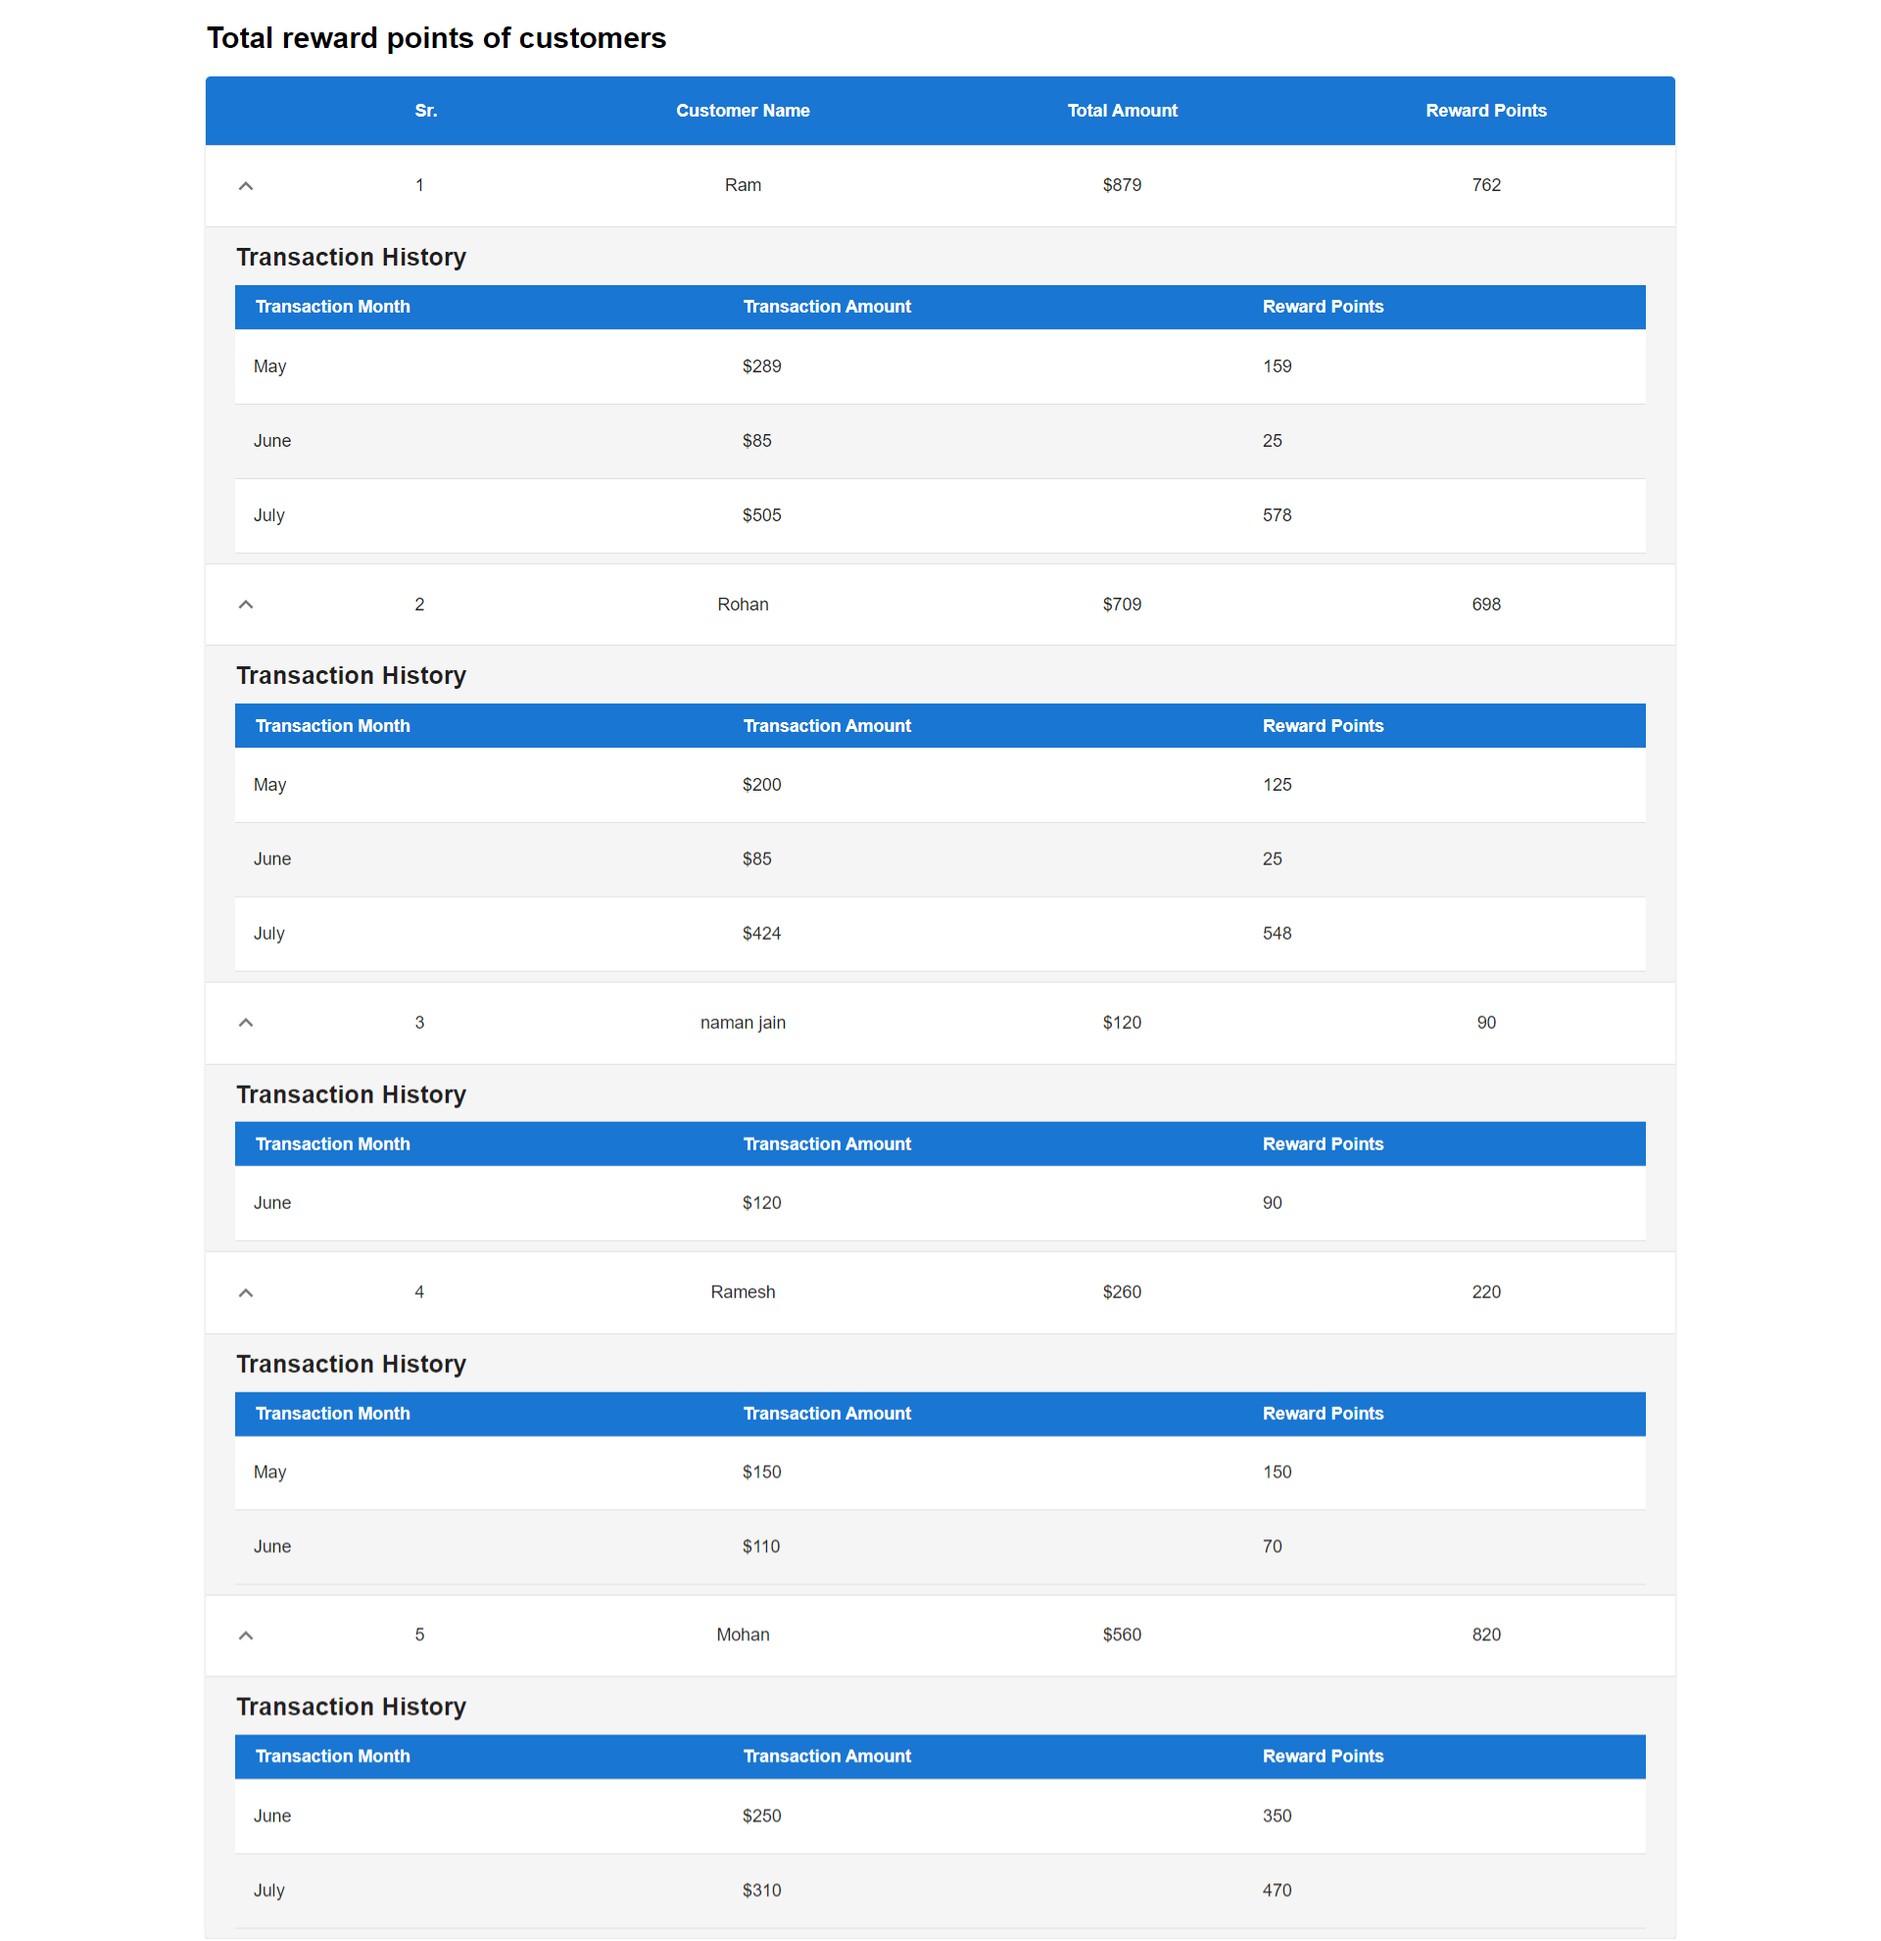
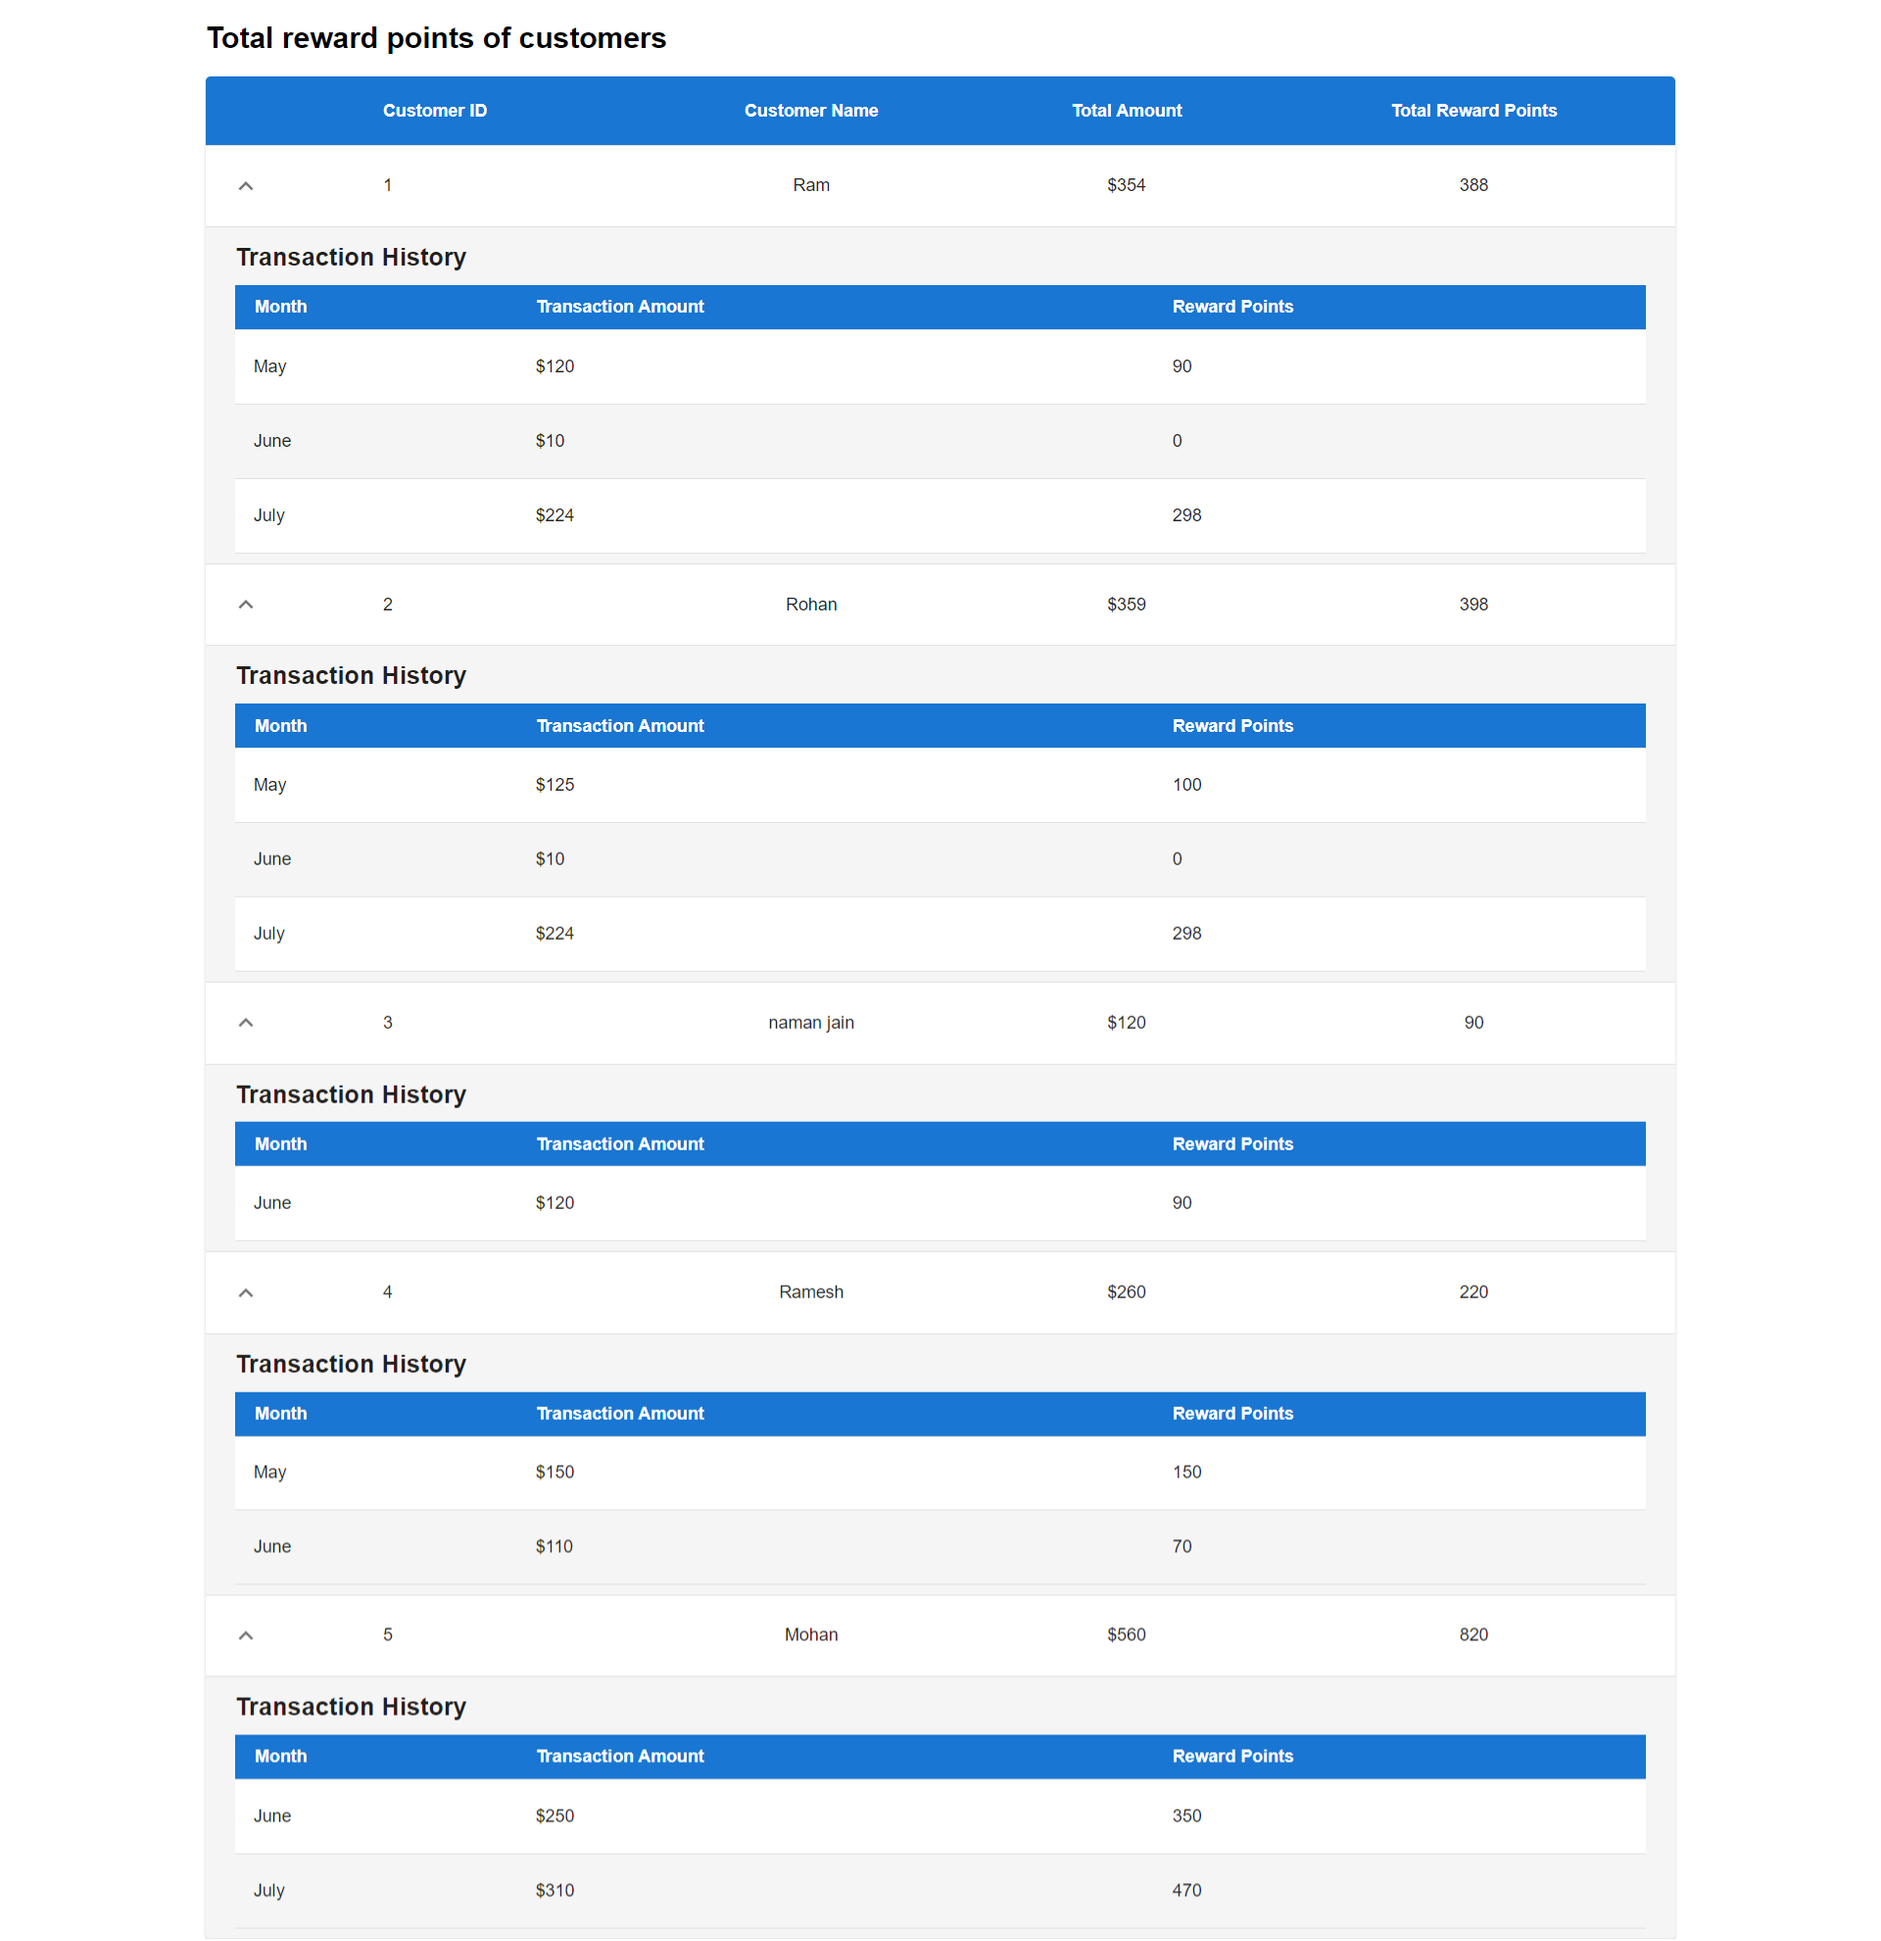
added comments

diff --git a/src/service/dataService.js b/src/service/dataService.js
@@ -10,44 +10,8 @@ export default function() {
           {
               custid: 1,
               customerName: "Ram",
-              amount: 75,
-              transactionDate: "05-21-2024"
-          },
-          {
-              custid: 1,
-              customerName: "Ram",
-              amount: 94,
-              transactionDate: "05-21-2024"
-          },
-          {
-              custid: 1,
-              customerName: "Ram",
               amount: 10,
               transactionDate: "06-01-2024"
-          },
-          {
-              custid: 1,
-              customerName: "Ram",
-              amount: 75,
-              transactionDate: "06-21-2024"
-          },
-          {
-              custid: 1,
-              customerName: "Ram",
-              amount: 200,
-              transactionDate: "07-01-2024"
-          },
-          {
-              custid: 1,
-              customerName: "Ram",
-              amount: 1,
-              transactionDate: "07-04-2024"
-          },
-          {
-              custid: 1,
-              customerName: "Ram",
-              amount: 80,
-              transactionDate: "07-03-2024"
           },
           {
               custid: 1,
@@ -64,26 +28,8 @@ export default function() {
           {
               custid: 2,
               customerName: "Rohan",
-              amount: 75,
-              transactionDate: "05-21-2024"
-          },
-          {
-              custid: 2,
-              customerName: "Rohan",
               amount: 10,
               transactionDate: "06-01-2024"
-          },
-          {
-              custid: 2,
-              customerName: "Rohan",
-              amount: 75,
-              transactionDate: "06-21-2024"
-          },
-          {
-              custid: 2,
-              customerName: "Rohan",
-              amount: 200,
-              transactionDate: "07-01-2024"
           },
           {
               custid: 2,

diff --git a/src/components/customerrewards/index.js b/src/components/customerrewards/index.js
@@ -1,5 +1,5 @@
 import React from "react";
-import TableRows from "./TableRows"; // Importing the component for table rows
+import CustomerRewardSingle from "./CustomerRewardSingle"; // Importing the component for table rows
 
 // Importing necessary components from Material-UI
 import Table from "@mui/material/Table";
@@ -19,7 +19,7 @@ const titleObj = {
 };
 
 // Functional component for Tables
-const Tables = ({ title, data, columns }) => {
+const CustomerRewards = ({ title, data, columns }) => {
 
   // Render the component
   return (
@@ -35,7 +35,7 @@ const Tables = ({ title, data, columns }) => {
           <TableHead>
             <TableRow>
               <TableCell />
-              <TableCell style={{ fontWeight: 600 }}>Sr.</TableCell>
+              <TableCell style={{ fontWeight: 600 }}>Customer ID</TableCell>
               {/* Mapping over columns array to create table headers */}
               {columns.map((el, i) => {
                 return (
@@ -51,7 +51,7 @@ const Tables = ({ title, data, columns }) => {
             {/* Mapping over data to create rows */}
             {data?.map((row, i) => {
               return (
-                <TableRows
+                <CustomerRewardSingle
                   key={i}
                   id={i}
                   row={row}
@@ -65,4 +65,4 @@ const Tables = ({ title, data, columns }) => {
   );
 };
 
-export default Tables; // Exporting the Tables component as default
+export default CustomerRewards; // Exporting the Tables component as default

diff --git a/src/components/customerrewards/CustomerRewardSingle.js b/src/components/customerrewards/CustomerRewardSingle.js
@@ -12,9 +12,9 @@ import KeyboardArrowDownIcon from "@mui/icons-material/KeyboardArrowDown";
 import KeyboardArrowUpIcon from "@mui/icons-material/KeyboardArrowUp";
 
 // Functional component for rendering each row in the table
-const TableRows = ({ id, row }) => {
+const CustomerRewardSingle = ({ id, row }) => {
   const [open, setOpen] = useState(false); // State for managing row expansion/collapse
-
+console.log('row',row)
   return (
     <>
       <TableRow sx={{ "& > *": { borderBottom: "unset" } }}>
@@ -30,12 +30,12 @@ const TableRows = ({ id, row }) => {
           </IconButton>
 
         </TableCell>
-        <TableCell>{id + 1}</TableCell>
+        <TableCell>{row?.custid}</TableCell>
         <TableCell align="center" component="th" scope="row">
-          {row.customerName}
+          {row?.customerName}
         </TableCell>
-        <TableCell align="center">${row.totalAmount}</TableCell>
-        <TableCell align="center">{row.totalRewardPoints}</TableCell>
+        <TableCell align="center">${row?.totalAmount}</TableCell>
+        <TableCell align="center">{row?.totalRewardPoints}</TableCell>
       </TableRow>
 
       {/* Subrow with transaction history */}
@@ -91,4 +91,4 @@ const TableRows = ({ id, row }) => {
   );
 };
 
-export default TableRows; // Exporting the TableRows component as default
+export default CustomerRewardSingle; // Exporting the TableRows component as default

diff --git a/src/__tests__/calculateRewardPointsByTransactions.js b/src/__tests__/calculateRewardPointsByTransactions.js
@@ -11,7 +11,7 @@ describe('calculateRewardPointsByTransactions', () => {
 
   it('correctly calculates reward points for a single transaction', () => {
       const input = [
-          { custid: '1', customerName: 'John Doe', transactionDate: '2024-01-15', amount: 100 }
+          { custid: '1', customerName: 'Ram', transactionDate: '2024-01-15', amount: 100 }
       ];
       const result = calculateRewardPointsByTransactions(input);
       expect(result).toHaveLength(1);
@@ -21,9 +21,9 @@ describe('calculateRewardPointsByTransactions', () => {
 
   it('correctly aggregates points by customer for multiple transactions', () => {
       const input = [
-          { custid: '1', customerName: 'John Doe', transactionDate: '2024-01-15', amount: 100 },
-          { custid: '1', customerName: 'John Doe', transactionDate: '2024-02-20', amount: 200 },
-          { custid: '2', customerName: 'Jane Smith', transactionDate: '2024-01-05', amount: 150 }
+          { custid: '1', customerName: 'Ram', transactionDate: '2024-01-15', amount: 100 },
+          { custid: '1', customerName: 'Ram', transactionDate: '2024-02-20', amount: 200 },
+          { custid: '2', customerName: 'Rohan', transactionDate: '2024-01-05', amount: 150 }
       ];
       const result = calculateRewardPointsByTransactions(input);
       expect(result).toHaveLength(2); // Assuming two customers in the input

diff --git a/src/App.js b/src/App.js
@@ -1,14 +1,14 @@
 import React, { Suspense, lazy } from "react";
 
 // Importing custom hook for API data fetching
-import useApi from "./Hooks/useApi";
+import useApi from "./hooks/useApi";
 
 // Importing components
 
-import Loader from "./components/Loader";
-import ErrorPage from "./components/ErrorPage";
-// Importing Tables component dynamically using lazy and Suspense
-const Tables = lazy(() => import("./components/Tables"));
+import Loader from "./components/loader";
+import ErrorPage from "./components/errorpage";
+// Importing CustomerRewards component dynamically using lazy and Suspense
+const CustomerRewards = lazy(() => import("./components/customerrewards"));
 
 // Styles for the container div
 const styleObj = {
@@ -49,7 +49,7 @@ function App() {
     <div style={styleObj}>
         {/* Lazy-loaded component for displaying monthly reward points */}
         <Suspense fallback={<Loader />}>
-          <Tables
+          <CustomerRewards
             title="Total reward points of customers"
             data={data}
             columns={columns}

diff --git a/src/utils/calculateRewardPointsByTransactions.js b/src/utils/calculateRewardPointsByTransactions.js
@@ -18,6 +18,7 @@ export function calculateRewardPointsByTransactions(incomingData) {
         // Initializing customer if not already present in pointsByCustomer object
         if (!pointsByCustomer[custid]) {
             pointsByCustomer[custid] = {
+                custid:0,
                 customerName: '',
                 monthlyRewardPoints: {},
                 totalRewardPoints: 0,
@@ -31,6 +32,7 @@ export function calculateRewardPointsByTransactions(incomingData) {
         }
 
         // Updating customer details and reward points
+        pointsByCustomer[custid].custid = custid;
         pointsByCustomer[custid].customerName = customerName;
         pointsByCustomer[custid].monthlyRewardPoints[month].points += points;
         pointsByCustomer[custid].monthlyRewardPoints[month].amount += amount;
